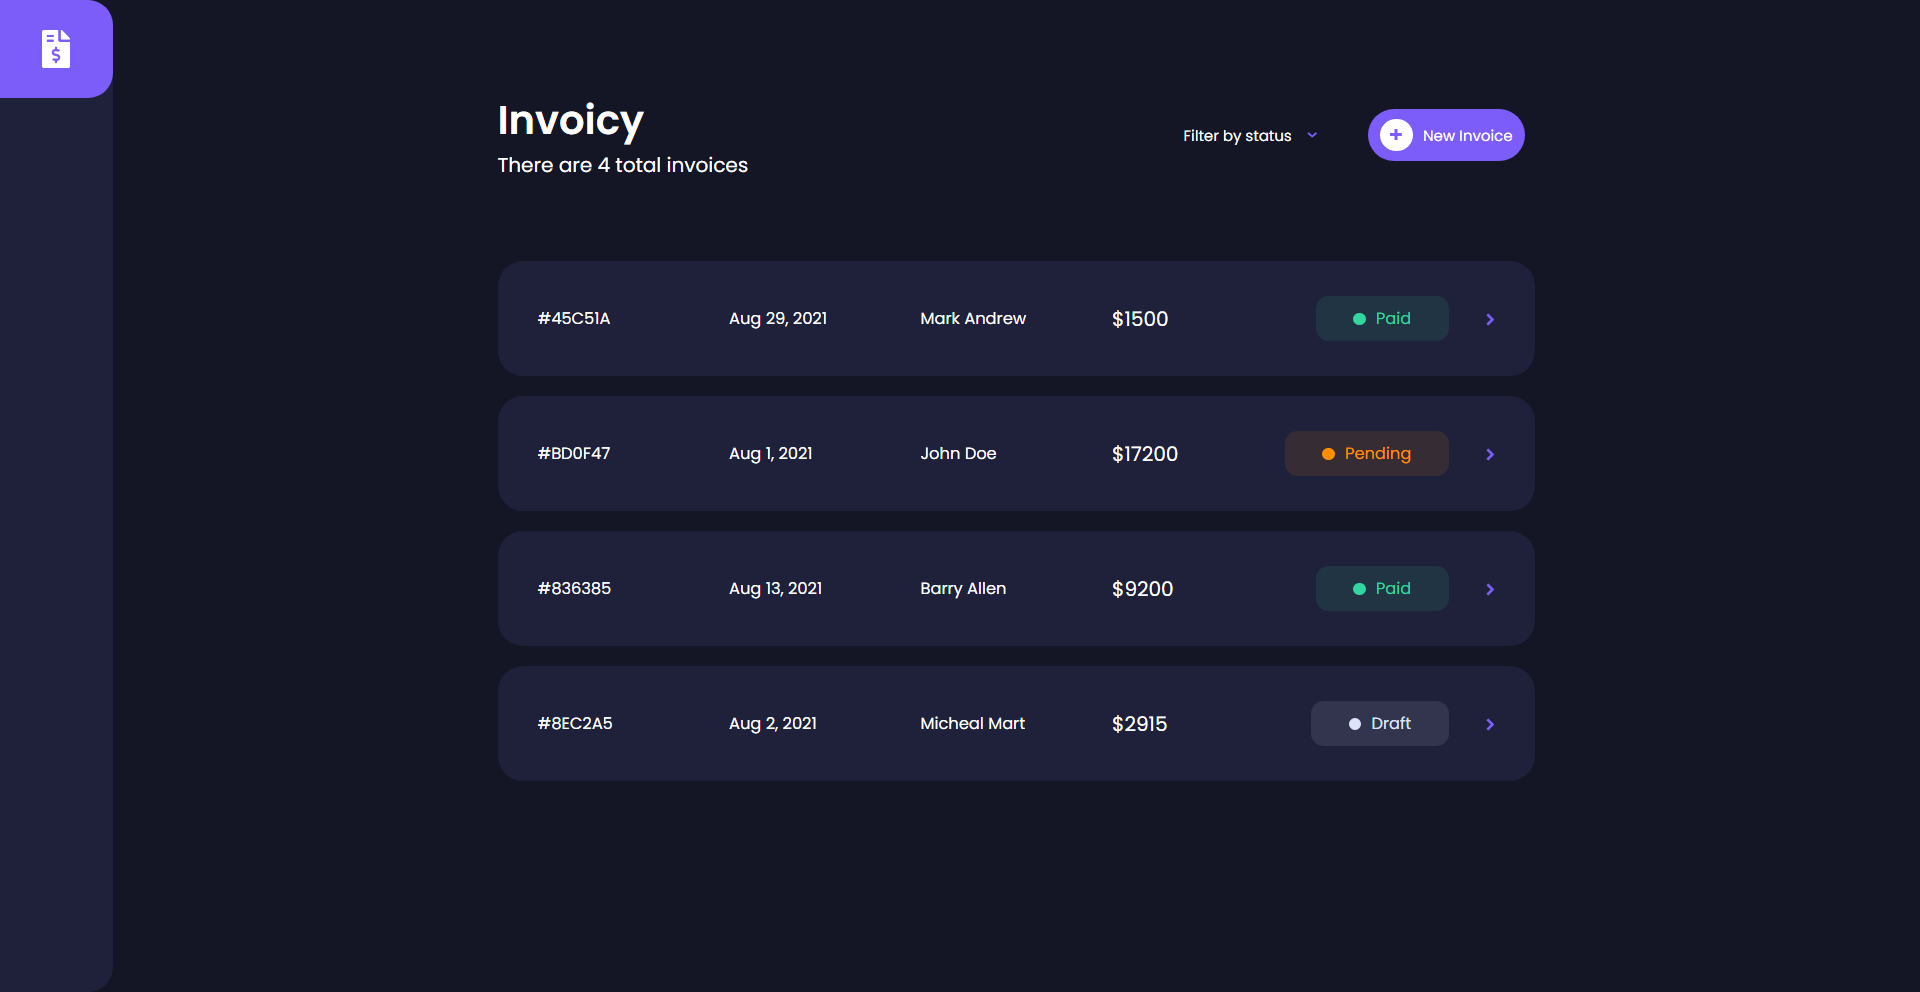
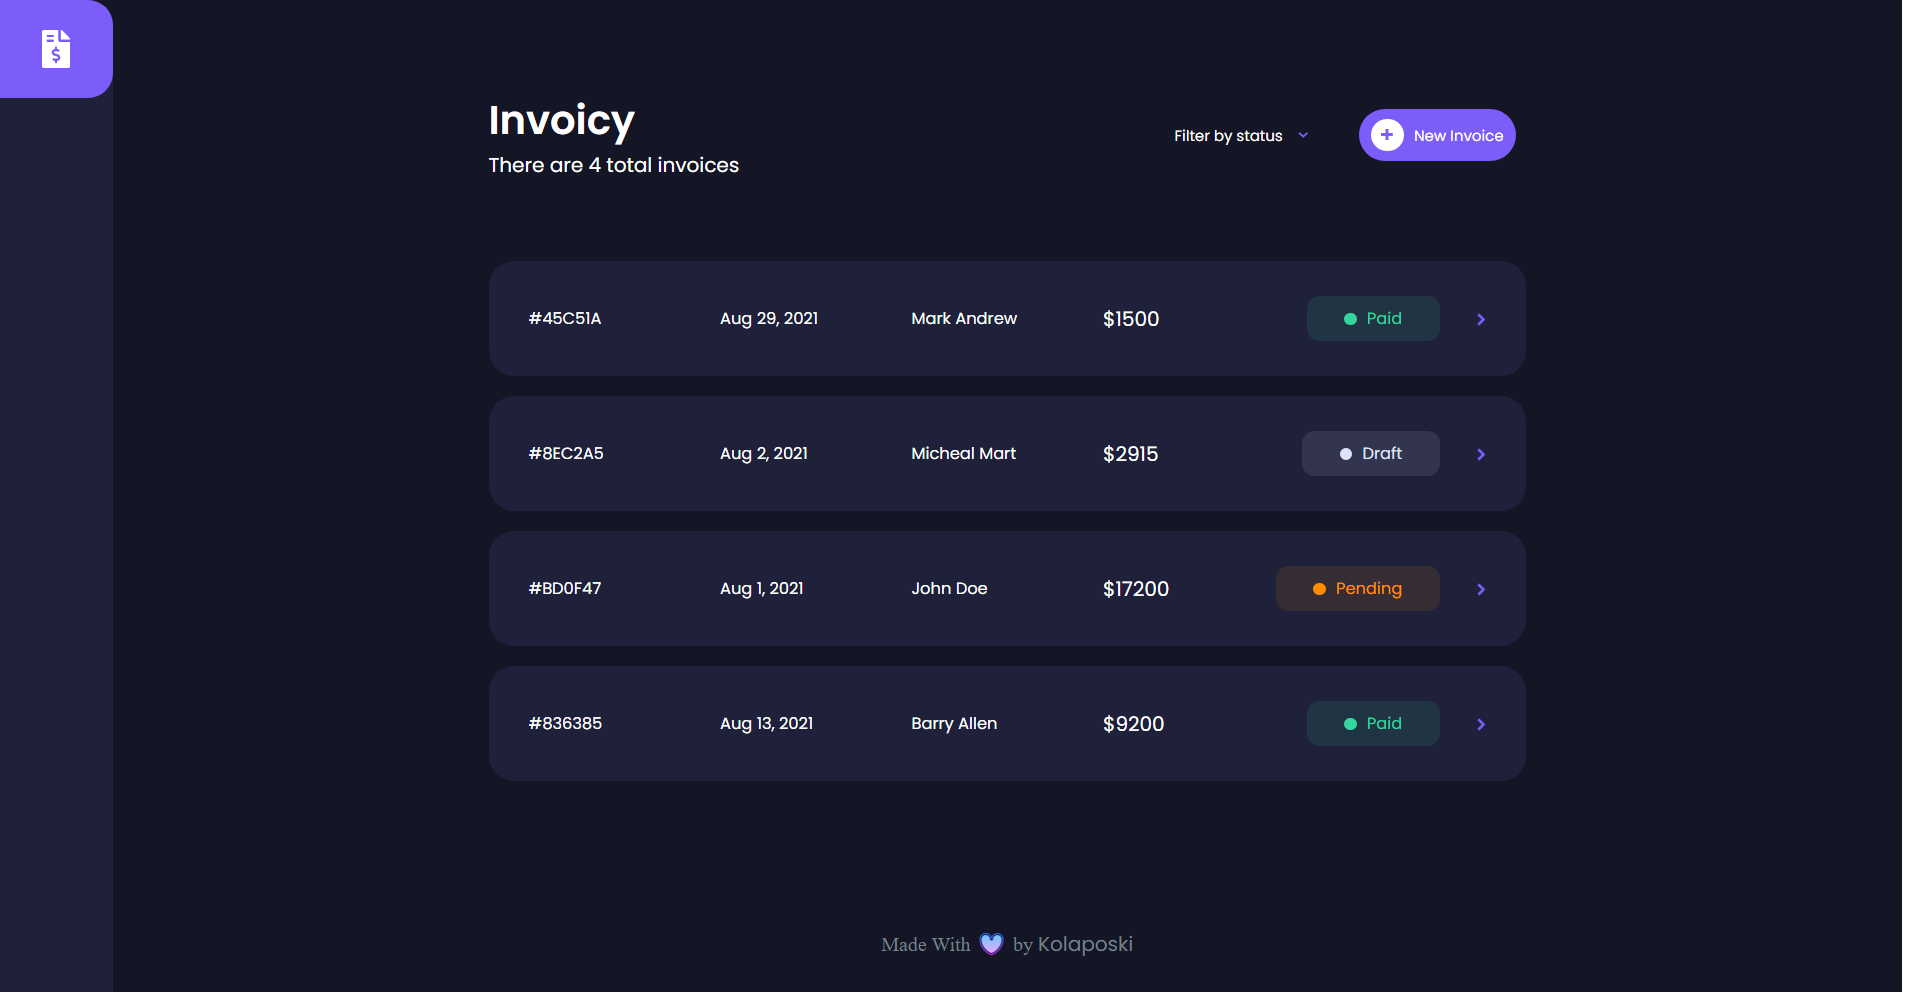
Update routes title and readme

diff --git a/src/router/index.js b/src/router/index.js
@@ -7,17 +7,55 @@ const routes = [
     path: "/",
     name: "Home",
     component: Home,
+    meta: {
+      title: "Home - Invoicy",
+      metaTags: [
+        {
+          name: "description",
+          content: "Keep record of your invoices.",
+        },
+        {
+          property: "og:description",
+          content: "Keep record of your invoices.",
+        },
+      ],
+    },
   },
   {
     path: "/invoice/:invoiceId",
     name: "Invoice",
     component: InvoiceView,
+    meta: {
+      title: "Invoicy",
+      metaTags: [
+        {
+          name: "description",
+          content: "Keep record of your invoices.",
+        },
+        {
+          property: "og:description",
+          content: "Keep record of your invoices.",
+        },
+      ],
+    },
   },
 ];
 
 const router = createRouter({
   history: createWebHistory(process.env.BASE_URL),
   routes,
+});
+
+router.beforeEach((to, from, next) => {
+  /* The routing changes and modify the page title */
+  if (to.meta.title) {
+    if (to.params.invoiceId) {
+      document.title = `Invoicy - ${to.params.invoiceId}`;
+    } else {
+      document.title = to.meta.title;
+    }
+  }
+  next();
 });
 
 export default router;

diff --git a/src/views/Home.vue b/src/views/Home.vue
@@ -36,6 +36,17 @@
         :key="index"
       />
     </div>
+
+    <footer>
+      <div class="container">
+        <span
+          >Made With <img src="@/assets/love.png" alt="" /> by
+          <a href="https://twitter.com/KolapoOshodi" target="_blank"
+            >Kolaposki</a
+          >
+        </span>
+      </div>
+    </footer>
   </div>
 </template>
 
@@ -94,6 +105,35 @@ export default {
 </script>
 
 <style lang="scss" scoped>
+footer {
+  display: block;
+  margin: 0 0 40px;
+}
+footer span {
+  display: block;
+  text-align: center;
+  font-family: "poppin-med";
+  color: #75808a;
+  margin-top: 30px;
+}
+footer img {
+  width: 25px;
+  height: 25px;
+  margin: -7px 0.5px;
+  padding: 0;
+}
+footer a {
+  color: #75808a;
+  text-decoration: none;
+  background-color: transparent;
+}
+footer .container {
+  padding-right: 15px;
+  padding-left: 15px;
+  margin-right: auto;
+  margin-left: auto;
+}
+
 .home {
   color: #fff;
 

diff --git a/README.md b/README.md
@@ -1,16 +1,14 @@
 # Invoicy
 
-A project that keeps record of invoices and their due dates.
+A SPA (Single PAge Application) that keeps record of invoices and their due dates.
 
-![](https://github.com/Kolaposki/Invoicy/blob/master/screenshot.png?raw=true)
+![](https://github.com/Kolaposki/Invoicy/blob/main/screenshot.png?raw=true)
 
-![](https://github.com/Kolaposki/Invoicy/blob/master/screenshot2.png?raw=true)
+![](https://github.com/Kolaposki/Invoicy/blob/main/screenshot2.png?raw=true)
 
 Built using Vue.js & Firebase.
 
-The project was built while learning CRUD implementation and in Vue.js
-
-Much thanks to John Komarnicki [tutorial](https://www.youtube.com/watch?v=vsJtN54aA7w).
+The project was built while learning CRUD implementation in Vue.js
 
 ### Author
 
